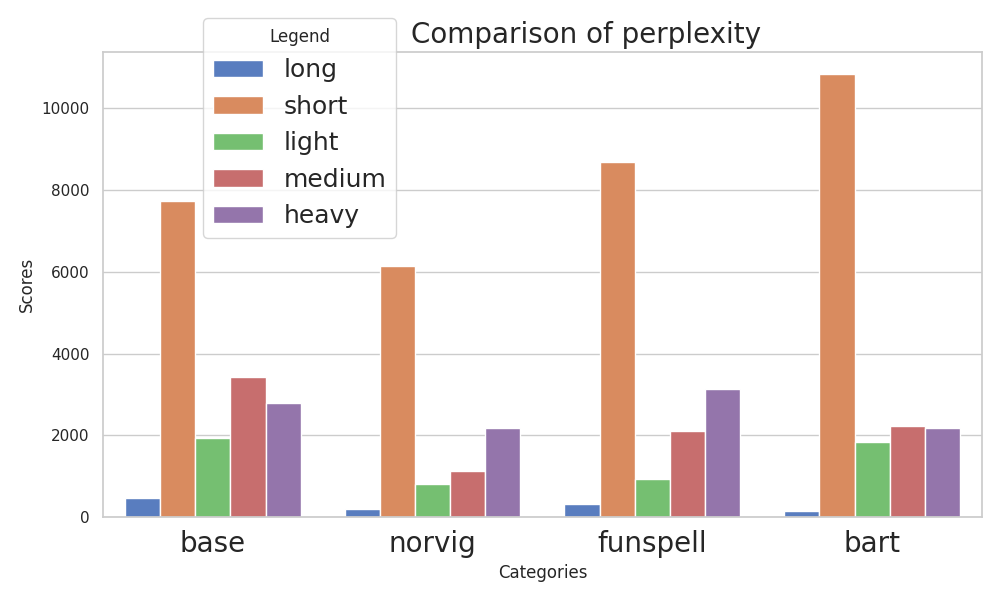
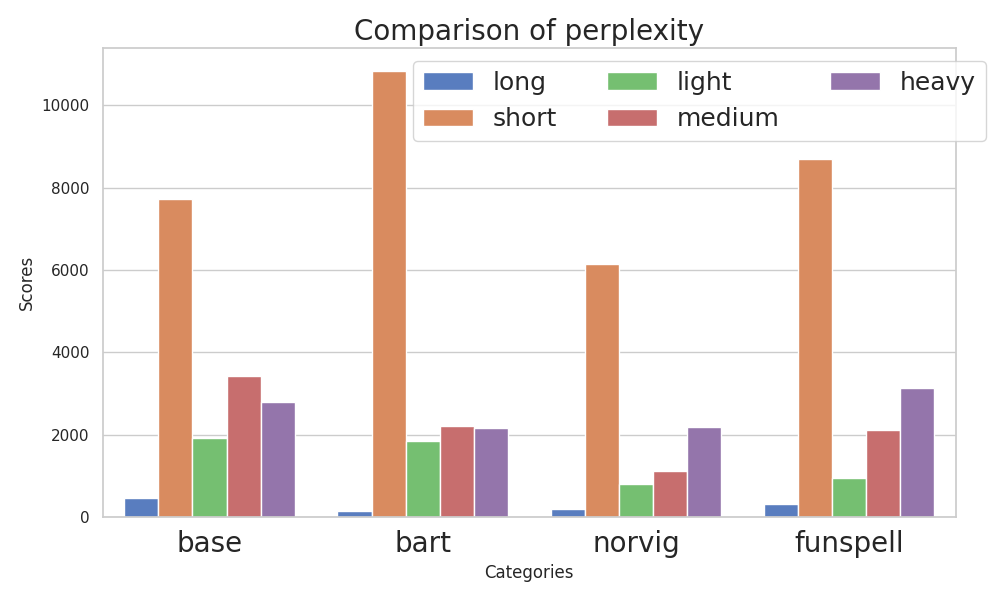
Update perplexity graph

diff --git a/project/analysis/perplexity_similarity_analysis/perplexity/plot_seaborn.py b/project/analysis/perplexity_similarity_analysis/perplexity/plot_seaborn.py
@@ -2,13 +2,20 @@ import seaborn as sns
 import numpy as np
 import matplotlib.pyplot as plt
 
-# Sample data
-categories = ['base', 'norvig', 'funspell', 'bart']
-long = [461.787511013522, 191.93403821888538, 319.80407888582437, 156.05157340399109]
-short = [7736.254397026347, 6142.7290351407, 8689.449122792392, 10841.995344264931]
-light = [1930.290759843189, 810.1938913104251, 945.8421107219435, 1844.8247629513533]
-medium = [3419.8989599032425, 1134.709664951503, 2106.3258280108657, 2221.9799026163505]
-heavy = [2795.5261774032642, 2189.6917773352366, 3132.8650179408774, 2172.987126327613]
+# categories = ['base', 'norvig', 'funspell', 'bart']
+# long = [461.787511013522, 191.93403821888538, 319.80407888582437, 156.05157340399109]
+# short = [7736.254397026347, 6142.7290351407, 8689.449122792392, 10841.995344264931]
+# light = [1930.290759843189, 810.1938913104251, 945.8421107219435, 1844.8247629513533]
+# medium = [3419.8989599032425, 1134.709664951503, 2106.3258280108657, 2221.9799026163505]
+# heavy = [2795.5261774032642, 2189.6917773352366, 3132.8650179408774, 2172.987126327613]
+
+categories = ['base', 'bart', 'norvig', 'funspell']  
+long = [461.787511013522, 156.05157340399109, 191.93403821888538, 319.80407888582437]
+short = [7736.254397026347, 10841.995344264931, 6142.7290351407, 8689.449122792392]
+light = [1930.290759843189, 1844.8247629513533, 810.1938913104251, 945.8421107219435]
+medium = [3419.8989599032425, 2221.9799026163505, 1134.709664951503, 2106.3258280108657]
+heavy = [2795.5261774032642, 2172.987126327613, 2189.6917773352366, 3132.8650179408774]
+
 
 # Create a dataframe for the data
 import pandas as pd
@@ -29,8 +36,8 @@ sns.set(style="whitegrid")
 plt.figure(figsize=(10, 6))
 sns.barplot(x='Categories', y='Scores', hue='Intensity', data=df_melted, palette='muted')
 
-plt.title('Comparison of perplexity', fontsize=20, x=0.55)
-plt.legend(title='Legend', fontsize=18, bbox_to_anchor=(0.1, 1.1), loc='upper left')
+plt.title('Comparison of perplexity', fontsize=20)
+plt.legend(fontsize=18, bbox_to_anchor=(1.05, 1), loc='upper right', ncol=3)
 
 plt.xticks(fontsize=20)
 
